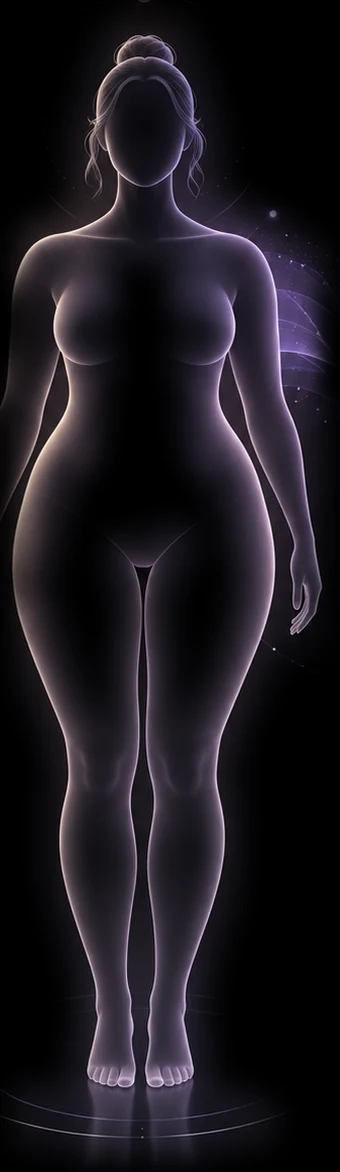
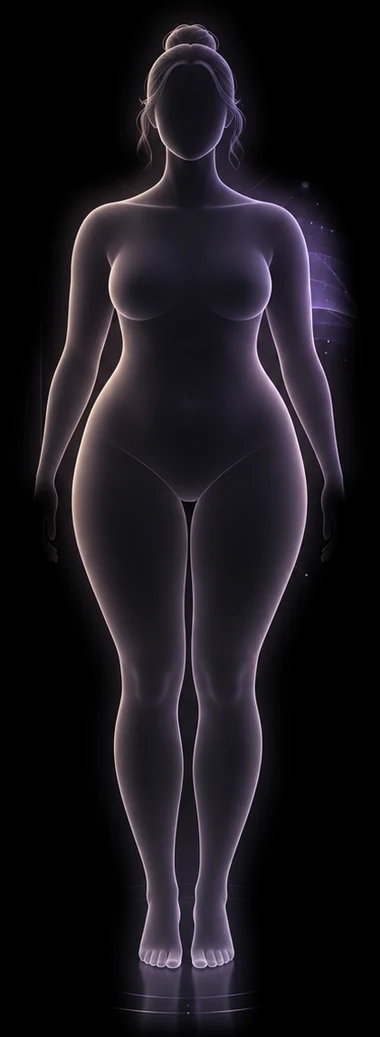
Целая фигура, честный диапазон веса, рельеф и живой экран
Три вещи по замечаниям после живого просмотра.

1. Картинке срезало руку. Центр фигуры в исходнике я нашёл по медиане
   ярких пикселей, а её утянул фиолетовый туман справа — окно обрезки
   уехало, и левая рука осталась за кадром. Теперь центр ищется по голове:
   она узкая и симметричная, её не сбивают ни туман сбоку, ни кольцо на
   полу (по ногам центр тоже уезжает). Заодно кольцо и остатки потока
   срезаны размыканием маски — тонкие отростки уходят, тело остаётся, — а
   правая сторона ограничена по левой, которая чистая. Проверено
   численно: перекос между сторонами пропал.

2. Обе фигуры выглядели полными, и «сейчас» почти не отличалось от
   «цели». Причина: эталон в расчёте считался стройнее, чем нарисован,
   поэтому любое тело выходило шире рисунка, а диапазон растяжения был
   узким. Эталон поднят до того телосложения, которое на картинке правда
   нарисовано, диапазон расширен. Теперь 52 кг — стройная, 120 кг —
   полная, и это видно.

3. Добавлены рельеф и движение:
   - чем стройнее тело, тем заметнее прорисовка пресса, рёбер и бёдер;
     у полной фигуры её нет вовсе — это намёк на форму, а не обещание;
   - фигура медленно дышит (точка опоры под стопами, иначе она
     подпрыгивает над полом), пунктирный ореол вращается, точки мерцают
     вразнобой, поток между фигурами течёт, выбранная зона пульсирует.
     Всё выключается системной настройкой «меньше движения».

Пропорции для подсветки зон пересняты по новой картинке: на симметричной
[…]

diff --git a/webapp/static/app.js b/webapp/static/app.js
@@ -883,6 +883,40 @@ function figureDecor() {
     <circle cx="${FIG.cx + 71}" cy="${floor}" r="2.6" class="fig-spark"/>`;
 }
 
+/* Рельеф: чем стройнее тело, тем заметнее прорисовка пресса и бёдер.
+   Это намёк на форму, а не обещание кубиков, поэтому линии мягкие и
+   появляются постепенно — вместе с тем, как сходит объём. */
+function relief(warp) {
+  const lean = Math.min(Math.max((1 - (warp.waist || 1)) / 0.22, 0), 1);
+  if (lean < 0.06) return '';
+
+  const waist = ART.zones.waist * FIG_H * (warp.waist || 1);
+  const hip = ART.zones.hip * FIG_H * (warp.hip || 1);
+  const thigh = ART.zones.thigh;
+  const c = FIG.cx;
+  const line = (d, width) => `<path d="${d}" stroke-width="${width}"/>`;
+
+  const ribs = [-1, 1].map((side) =>
+    line(`M ${pt(c + side * waist * 0.62, FIG.underbust - 4)} ` +
+         `Q ${pt(c + side * waist * 0.5, FIG.underbust + 12)} ` +
+         `${pt(c + side * waist * 0.2, FIG.underbust + 18)}`, 1.4)).join('');
+
+  const legs = [-1, 1].map((side) => {
+    const cx = c + side * thigh.dx * FIG_H * (warp.thigh || 1);
+    return line(`M ${pt(cx + side * thigh.w * FIG_H * 0.5, FIG.crotch + 6)} ` +
+                `Q ${pt(cx + side * thigh.w * FIG_H * 0.7, FIG.thighMid)} ` +
+                `${pt(cx + side * thigh.w * FIG_H * 0.35, FIG.knee - 12)}`, 1.3);
+  }).join('');
+
+  return `<g class="fig-relief" style="opacity:${n1(lean * 0.55)}">
+    ${line(`M ${pt(c, FIG.bust + 26)} L ${pt(c, FIG.hip - 12)}`, 1.6)}
+    ${ribs}
+    ${line(`M ${pt(c - waist * 0.34, FIG.waist + 16)} ` +
+           `Q ${pt(c, FIG.waist + 24)} ${pt(c + waist * 0.34, FIG.waist + 16)}`, 1.2)}
+    ${legs}
+  </g>`;
+}
+
 /* Вертикальные панели по краям сцены — как в макете. Скругление только по
    внутреннему краю: снаружи панель уходит за границу кадра. */
 function stagePanels() {
@@ -905,21 +939,21 @@ function stagePanels() {
    что и правда меняется от веса. */
 
 const ART = {
-  src: '/static/img/body.webp', w: 340, h: 1172, crown: 34,
+  src: '/static/img/body.webp', w: 380, h: 1037, crown: 24,
   // Стопы — это пальцы, а не нижний край картинки: ниже идёт отражение в
   // полу, и если считать его частью тела, фигура повисает над кольцом.
-  feet: 1068,
-  // Центр — по торсу, а не по габаритам кадра: обрезка вышла несимметричной,
-  // и по габаритам фигура уезжает вбок от колец и пола.
-  cx: 142,
+  feet: 1013,
+  // Центр искали по голове: она узкая и симметричная. По ногам его сбивает
+  // кольцо на полу, по габаритам кадра — остатки тумана сбоку. Из-за такой
+  // ошибки в прошлой версии кадр срезал фигуре руку.
+  cx: 190,
   // Пропорции самой нарисованной фигуры в долях её роста: по ним ложится
-  // подсветка зон. Свет в картинке падает слева, правый контур почти не
-  // читается — числа сняты по левому краю и симметрии, потом выверены
-  // рендером.
+  // подсветка зон. Сняты по пикам яркости на контуре — на симметричной
+  // картинке они читаются с обеих сторон и сходятся до третьего знака.
   zones: {
-    bust: 0.082, waist: 0.070, hip: 0.092,
-    thigh: { dx: 0.036, w: 0.032 },
-    arm: { dx: 0.082, w: 0.016 },
+    bust: 0.086, waist: 0.085, hip: 0.112,
+    thigh: { dx: 0.036, w: 0.033 },
+    arm: { dx: 0.110, w: 0.021 },
   },
 };
 
@@ -1204,8 +1238,10 @@ async function renderBody(data) {
       ${FIG_DEFS}
       ${stagePanels()}
       ${!single && data.goal ? nebula(215) : ''}
-      <g transform="translate(${single ? middle : 0} 0)">${figureDecor()}</g>
-      ${!single ? `<g transform="translate(230 0)">${figureDecor()}</g>` : ''}
+      <g transform="translate(${single ? middle : 0} 0)">
+        ${figureDecor()}${relief(data.warp || {})}</g>
+      ${!single ? `<g transform="translate(230 0)">
+        ${figureDecor()}${relief(data.goal_warp || {})}</g>` : ''}
       ${drawn(data.now, { dx: single ? middle : 0 })}
       ${!single && data.goal ? drawn(data.goal, { dx: 230, dim: true }) : ''}
       ${bodyMode === 'zones'

diff --git a/webapp/static/styles.css b/webapp/static/styles.css
@@ -353,6 +353,50 @@ button:focus-visible, .tab:focus-visible {
 .fig-ring.faint { stroke: #7B5FC4; stroke-opacity: .32; }
 .fig-spark { fill: #F0E0C0; opacity: .9; }
 
+/* Рельеф — тонкие светлые линии поверх тела, размытые до намёка. */
+.fig-relief path {
+  fill: none; stroke: #C9B8E8; stroke-linecap: round;
+  filter: url(#fig-blur-soft);
+}
+
+/* --- Жизнь на экране ---------------------------------------------------
+   Фигура дышит, ореол медленно вращается, точки мерцают, поток течёт.
+   Всё медленное и почти незаметное: экран должен казаться живым, а не
+   мигать. При системном запрете анимаций всё замирает. */
+@media (prefers-reduced-motion: no-preference) {
+  /* Точка опоры — под стопами, иначе фигура «подпрыгивает» над полом. */
+  .fig-canvas { animation: fig-breath 7s ease-in-out infinite; transform-origin: 50% 95%; }
+  .fig-halo.dotted {
+    animation: fig-spin 60s linear infinite;
+    transform-box: fill-box; transform-origin: center;
+  }
+  .fig-spark { animation: fig-twinkle 5s ease-in-out infinite; }
+  .fig-spark:nth-of-type(2n) { animation-delay: -1.7s; }
+  .fig-spark:nth-of-type(3n) { animation-delay: -3.1s; }
+  .nebula path { animation: fig-drift 11s ease-in-out infinite alternate; }
+  .nebula path:nth-of-type(2n) { animation-duration: 14s; animation-delay: -2s; }
+  .zone.on ellipse, .zone.on .zone-cap { animation: fig-pulse 2.6s ease-in-out infinite; }
+  .fig-relief { animation: fig-twinkle 6s ease-in-out infinite; }
+}
+
+@keyframes fig-breath {
+  0%, 100% { transform: scale(1); }
+  50%      { transform: scale(1.008); }
+}
+@keyframes fig-spin { to { transform: rotate(360deg); } }
+@keyframes fig-twinkle {
+  0%, 100% { opacity: .45; }
+  50%      { opacity: 1; }
+}
+@keyframes fig-drift {
+  from { transform: translate(-4px, 3px); }
+  to   { transform: translate(5px, -4px); }
+}
+@keyframes fig-pulse {
+  0%, 100% { opacity: .7; }
+  50%      { opacity: 1; }
+}
+
 .nebula path { fill: none; stroke: #8B6FD4; stroke-opacity: .35; stroke-width: 9;
   filter: url(#fig-nebula); stroke-linecap: round; }
 .nebula path.thin { stroke: #9B7FD4; stroke-width: 5; stroke-opacity: .3; }

diff --git a/utils/body.py b/utils/body.py
@@ -185,12 +185,15 @@ def goal_silhouette(
 # Рисунок фигуры (webapp/static/img/body.webp) изображает женщину примерно
 # такого телосложения. От него и считается, насколько растянуть картинку под
 # настоящие замеры: сам рисунок остаётся тем же, меняются только пропорции.
-REFERENCE_BMI = 23.0
+# Нарисована женщина заметно полнее среднего — если считать её худой,
+# все тела получаются «толстенькими», а разница между «сейчас» и «целью»
+# почти не читается.
+REFERENCE_BMI = 27.0
 
-# Границы растяжения: цель может быть выставлена как угодно, а превращать
-# рисунок в кривое зеркало нельзя.
-WARP_MIN = 0.84
-WARP_MAX = 1.30
+# Границы растяжения: цель можно выставить любую, а рисунок обязан остаться
+# человеком. Диапазон широкий — иначе 59 и 90 кг выглядят одинаково.
+WARP_MIN = 0.70
+WARP_MAX = 1.42
 
 WARP_ZONES = ("bust", "waist", "hip", "thigh", "arm")
 

diff --git a/tests/test_body.py b/tests/test_body.py
@@ -209,3 +209,18 @@ def test_no_warp_without_a_figure():
     from utils.body import warp_factors
 
     assert set(warp_factors(None, height_cm=165).values()) == {1.0}
+
+
+def test_slim_and_heavy_bodies_look_different():
+    """Из-за узкого диапазона 59 и 90 кг рисовались почти одинаково —
+    так фигура не отвечает на вопрос «а что изменится?»."""
+    from utils.body import warp_factors
+
+    slim, _ = build_silhouette(measures={}, height_cm=165, weight_kg=52)
+    heavy, _ = build_silhouette(measures={}, height_cm=165, weight_kg=95)
+
+    thin = warp_factors(slim, height_cm=165)["waist"]
+    full = warp_factors(heavy, height_cm=165)["waist"]
+    assert thin < 0.85 and full > 1.15
+    # Между худой и полной — заметно больше половины ширины.
+    assert full / thin > 1.4
